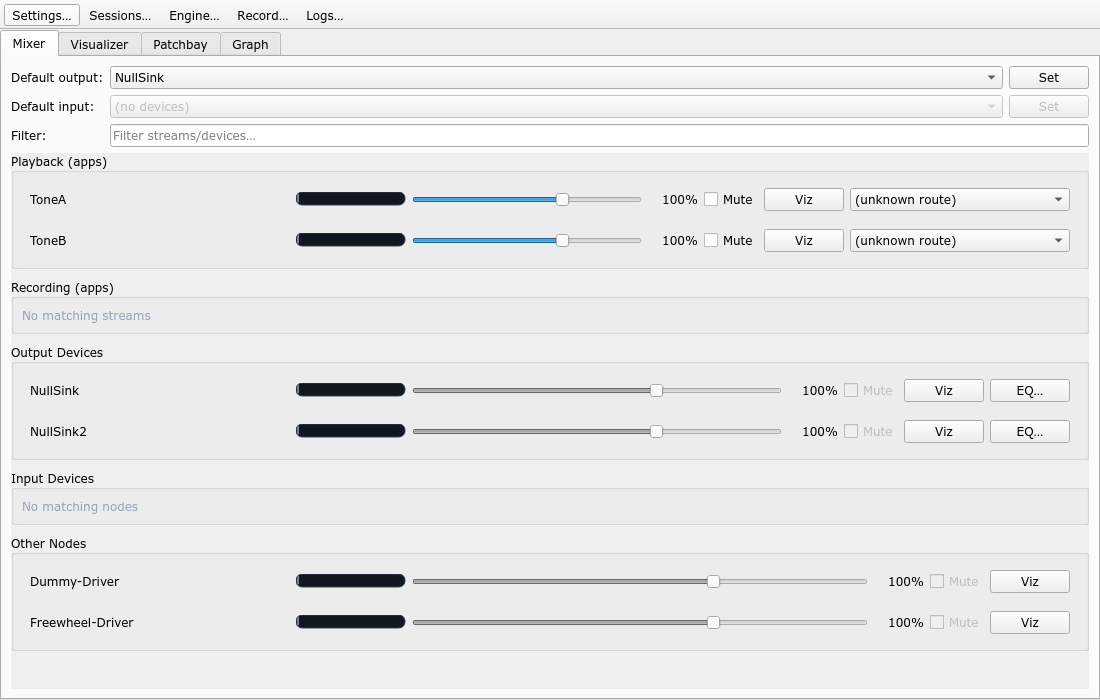
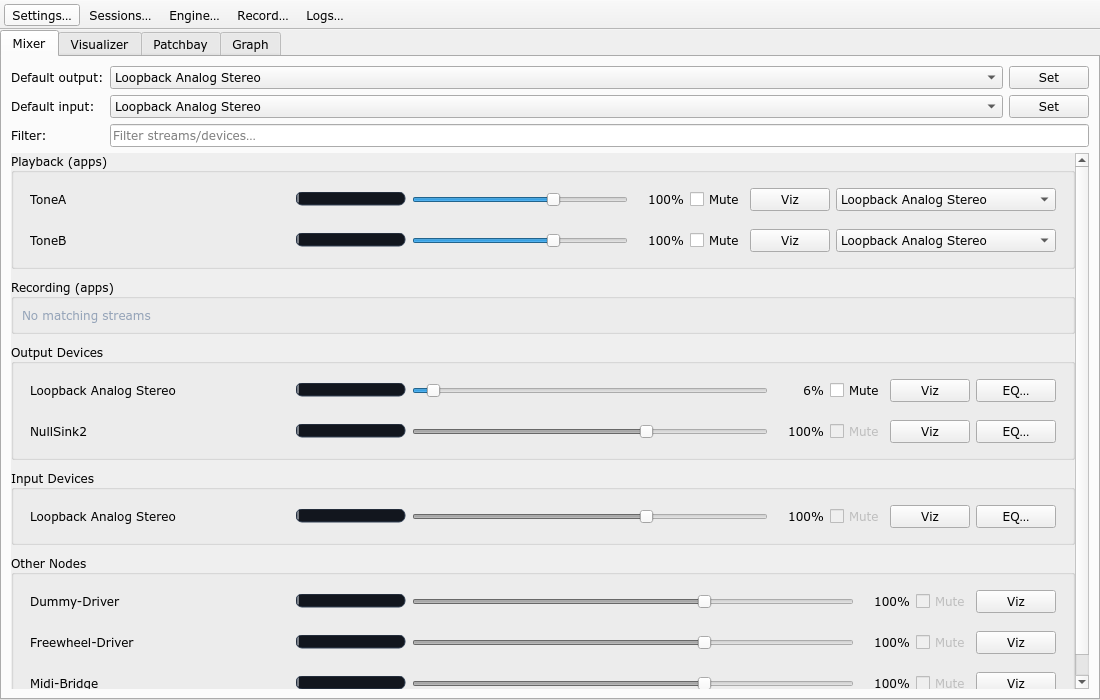
Generate real-audio screenshots (snd-aloop)

diff --git a/src/main.cpp b/src/main.cpp
@@ -37,6 +37,11 @@ int main(int argc, char** argv)
   QCommandLineOption tabOpt(QStringList{QStringLiteral("tab")},
                             QStringLiteral("Select initial tab: mixer|visualizer|patchbay|graph"),
                             QStringLiteral("name"));
+  QCommandLineOption tapTargetOpt(QStringList{QStringLiteral("tap-target")},
+                                  QStringLiteral("Set initial visualizer tap target (node name or object.serial)"),
+                                  QStringLiteral("target"));
+  QCommandLineOption tapCaptureSinkOpt(QStringList{QStringLiteral("tap-capture-sink")},
+                                       QStringLiteral("When used with --tap-target, capture the target as a sink monitor"));
   QCommandLineOption screenshotOpt(QStringList{QStringLiteral("screenshot")},
                                    QStringLiteral("Write a PNG screenshot to PATH and exit"),
                                    QStringLiteral("path"));
@@ -49,6 +54,8 @@ int main(int argc, char** argv)
                                         QStringLiteral("ms"),
                                         QStringLiteral("900"));
   parser.addOption(tabOpt);
+  parser.addOption(tapTargetOpt);
+  parser.addOption(tapCaptureSinkOpt);
   parser.addOption(screenshotOpt);
   parser.addOption(screenshotWindowOpt);
   parser.addOption(screenshotDelayOpt);
@@ -62,6 +69,13 @@ int main(int argc, char** argv)
 
     if (parser.isSet(tabOpt)) {
       window.selectTabByKey(parser.value(tabOpt));
+    }
+
+    if (parser.isSet(tapTargetOpt)) {
+      const QString target = parser.value(tapTargetOpt).trimmed();
+      if (!target.isEmpty() && target.toLower() != QStringLiteral("auto")) {
+        window.setVisualizerTapTarget(target, parser.isSet(tapCaptureSinkOpt));
+      }
     }
 
     if (parser.isSet(screenshotOpt)) {

diff --git a/src/backend/AudioTap.cpp b/src/backend/AudioTap.cpp
@@ -133,14 +133,12 @@ void AudioTap::applySettings(const VisualizerSettings& settings)
   if (fftChanged) {
     m_fftSize = nextFftSize;
     m_hopSize = std::max<std::size_t>(1U, m_fftSize / 4U);
+  }
+
+  if (m_hann.size() != m_fftSize) {
     m_hann = dsp::Fft::hannWindow(m_fftSize);
-    m_fftRing.assign(m_fftSize, 0.0f);
-    m_fftWrite = 0;
-    m_fftTotal = 0;
-    m_sinceFrame = 0;
-  } else if (m_hann.size() != m_fftSize) {
-    m_hann = dsp::Fft::hannWindow(m_fftSize);
-  } else if (m_fftRing.size() != m_fftSize) {
+  }
+  if (m_fftRing.size() != m_fftSize) {
     m_fftRing.assign(m_fftSize, 0.0f);
     m_fftWrite = 0;
     m_fftTotal = 0;

diff --git a/src/MainWindow.cpp b/src/MainWindow.cpp
@@ -138,6 +138,15 @@ MainWindow::MainWindow(LogStore* logs, QWidget* parent)
   });
 }
 
+void MainWindow::setVisualizerTapTarget(const QString& targetObject, bool captureSink)
+{
+  if (m_visualizerPage) {
+    m_visualizerPage->setTapTarget(targetObject, captureSink);
+  } else if (m_tap) {
+    m_tap->setTarget(captureSink, targetObject);
+  }
+}
+
 MainWindow::~MainWindow() = default;
 
 bool MainWindow::selectTabByKey(const QString& key)

diff --git a/src/MainWindow.h b/src/MainWindow.h
@@ -33,6 +33,7 @@ public:
   ~MainWindow() override;
 
   bool selectTabByKey(const QString& key);
+  void setVisualizerTapTarget(const QString& targetObject, bool captureSink);
   PipeWireGraph* graph() const { return m_graph; }
 
 protected:

diff --git a/plan.md b/plan.md
@@ -34,7 +34,7 @@
 - Generate screenshots (uses a temporary PipeWire instance + demo tone streams):
   - `./scripts/make_screenshots.sh`
   - Output: `screenshots/*.png`
-  - Note: this container’s private PipeWire graph often won’t deliver real capture data (no session manager), so the screenshot script enables `HEADROOM_DEMO_VISUALIZER=1` to ensure the waveform/spectrum/spectrogram panels aren’t blank.
+  - Note: `make_screenshots.sh` starts a *private* `dbus-daemon` + `pipewire` + `wireplumber` instance and prefers `snd-aloop` (when available) so the visualizers show real audio. If `snd-aloop` can’t be used, it falls back to a virtual null sink.
 
 - Upload screenshots:
   - `wtf-upload screenshots/*.png`
